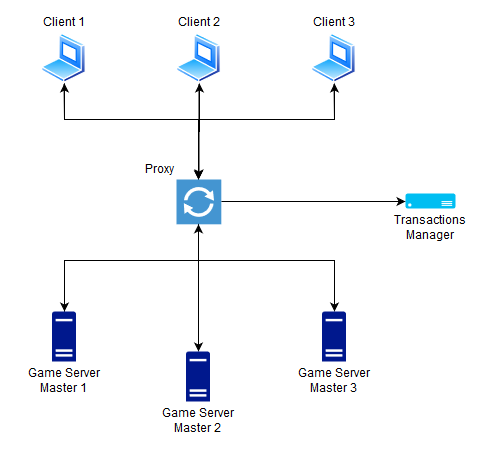
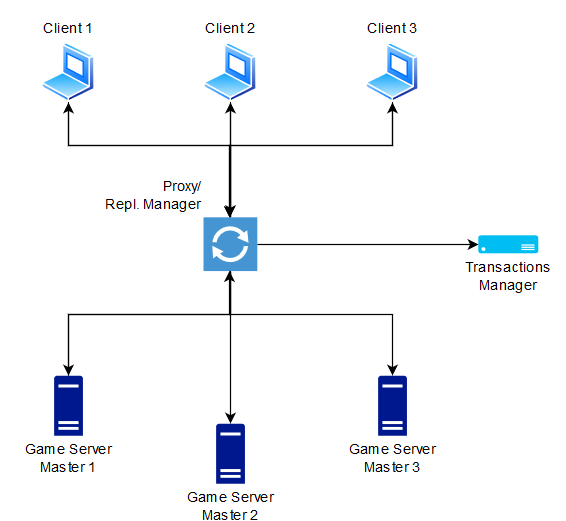
update for additional question

Changed region(s): [[0.0309, 0.0311, 0.9897, 1.0]]

diff --git a/README.md b/README.md
@@ -6,7 +6,7 @@
 
 ### Desain Visual Game
 Struktur data yang digunakan pada board:
-- List matra 3 dengan matra ke-1 menunjukkan ID dari board, matra ke-2 dan ke-3 berturut-turut adalah baris dan kolom pada board.
+- List matra 3 dengan matra pertama menunjukkan ID dari board, matra ke-2 dan ke-3 berturut-turut adalah baris dan kolom pada board.
 - List yang digunakan untuk menyimpan *ID player* dengan *write access* ke board
 - *State* untuk menyimpan keadaan dari board
 
@@ -18,9 +18,15 @@ Ilustrasi board dengan 3 permainan:
 ### Arsitektur
 ![Arsitektur](assets/architecture.png)
 #### Klien
-Node ini adalah player dari game Tic-Tac-Toe
-#### Proxy
-Node ini sebagai jembatan klien ke server game. Node ini bertugas untuk menentukan koneksi klien ke salah satu server yang tersedia. Selain itu, node ini akan mendistribusikan perintah yang dikirimkan oleh klien ke seluruh server. Perintah dari klien tersebut juga akan dikirimkan ke Transactions Manager
+Node ini adalah player dari game Tic-Tac-Toe. Saat menaruh bidak, node ini mengirim perintah `PUT`; balasan yang mungkin dari Game Master adalah sebagai berikut.
+- `OK`: Pemain berhasil menaruh bidaknya, giliran berganti ke lawan
+- `BAD`: Pemain memilih sel yang sudah terisi bidak, sehingga gagal bergerak, dan masih tetap berada di gilirannya
+- `NTRN`: Singkatan dari `NOT TURN`, pemain berusaha menaruh bidak di suatu sel saat bukan gilirannya
+- `WIN`: Pemain menaruh bidak di suatu sel, dan pemain tersebut juga menang
+- `LOSE`: Pemain lawan menaruh bidak di suatu sel, dan pemain ini kalah  
+Setelah pemainan berakhir (kedua pemain menerima pesan `WIN` atau `LOSE`), maka pemain nomer 1 akan mengirimkan pesan `END` ke server sebagai pnenanda pemain berakhir dan *board* dapat dibersihkan
+#### Proxy/Replication Manager
+Node ini sebagai jembatan klien ke server game. Node ini bertugas untuk menentukan koneksi klien ke salah satu server yang tersedia. Selain itu, node ini akan mendistribusikan perintah yang dikirimkan oleh klien ke seluruh server. Perintah dari klien tersebut juga akan dikirimkan ke Transactions Manager. Node ini juga bertugas untuk meneruskan respon dari Game Master ke klien
 #### Transactions Manager
 Node ini bertugas untuk menyimpan seluruh perintah/instruksi/transaksi yang pernah di-*request* oleh klien dan didistribusikan kepada Server. Format data transaksi yang disimpan adalah `<INDEX_NUM> <INSTRUCTION>`, contohnya:
 ```
